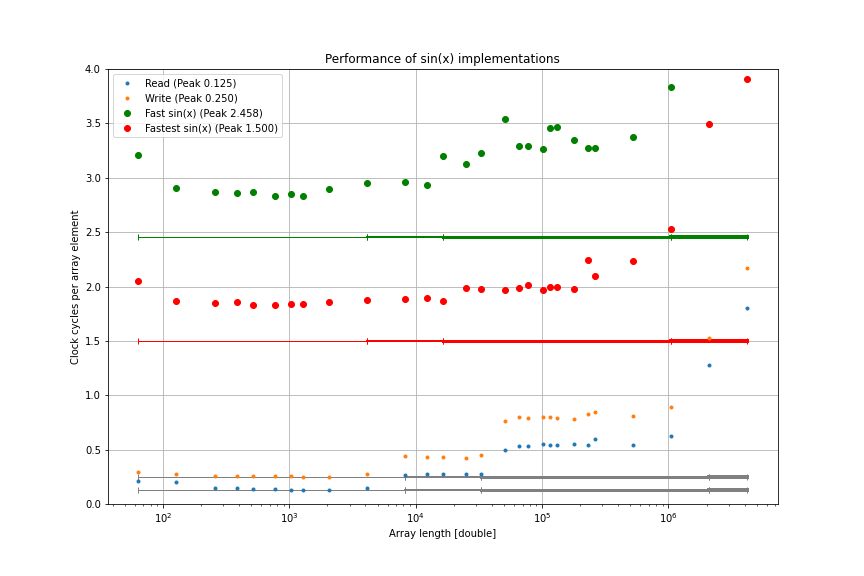
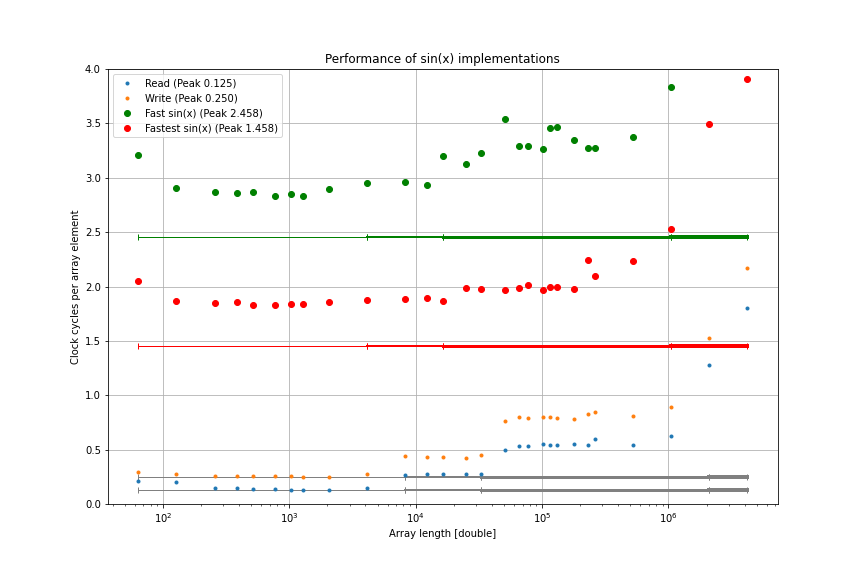
Fix the peak for fastest, update the graphs

Changed region(s): [[0.4375, 0.5625, 0.875, 0.625], [0.2812, 0.2188, 0.3125, 0.25]]

diff --git a/blog/Performance.md b/blog/Performance.md
@@ -111,7 +111,7 @@ sin_gf = D[1,:]
 k = 8 * 2 # 8 bytes per element, 2 arrays
 #kernel_peak = (7*fma_clock + 2*mul_clock) + (3*max_clock + 3*fma_clock + 2*float_int_conv_clock + mul_clock)
 fast_peak = (7*fma_clock + 2*mul_clock) + (3*fma_clock + fma_clock+2*float_int_conv_clock + xor_clock + shift_clock)
-fastest_peak = (fma_clock + 2*mul_clock) + (3*max_clock + fma_clock + 2*float_int_conv_clock + mul_clock)
+fastest_peak = (2*fma_clock + 2*mul_clock) + (fma_clock + 2*float_int_conv_clock + xor_clock + shift_clock)
 
 def draw_peak(x, L1_peak, L1, L2, L3, n, label, color):
     L1x = L1 / (8*n)
